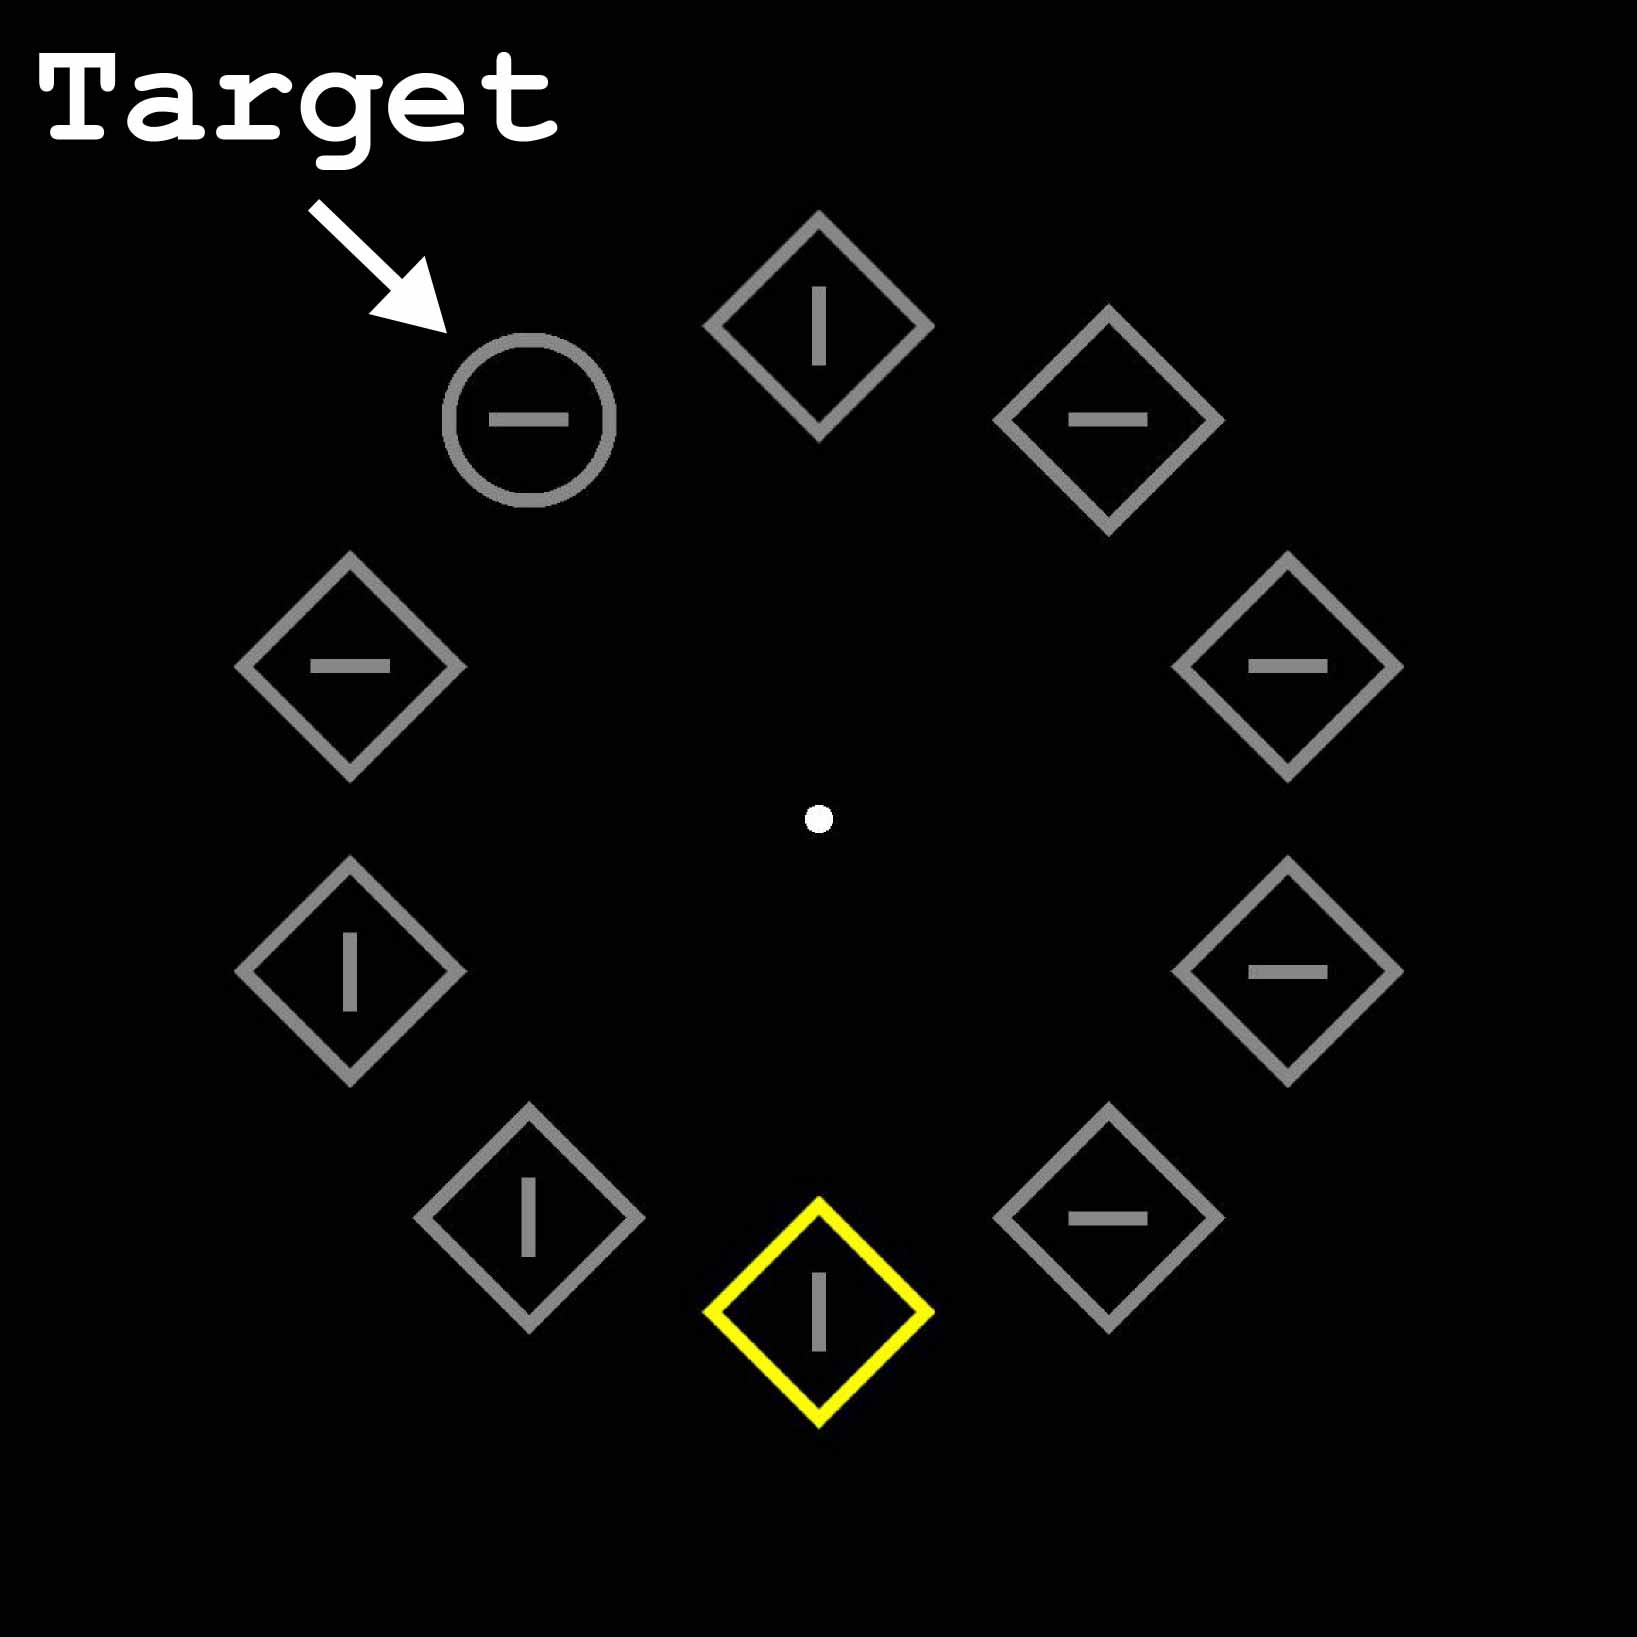
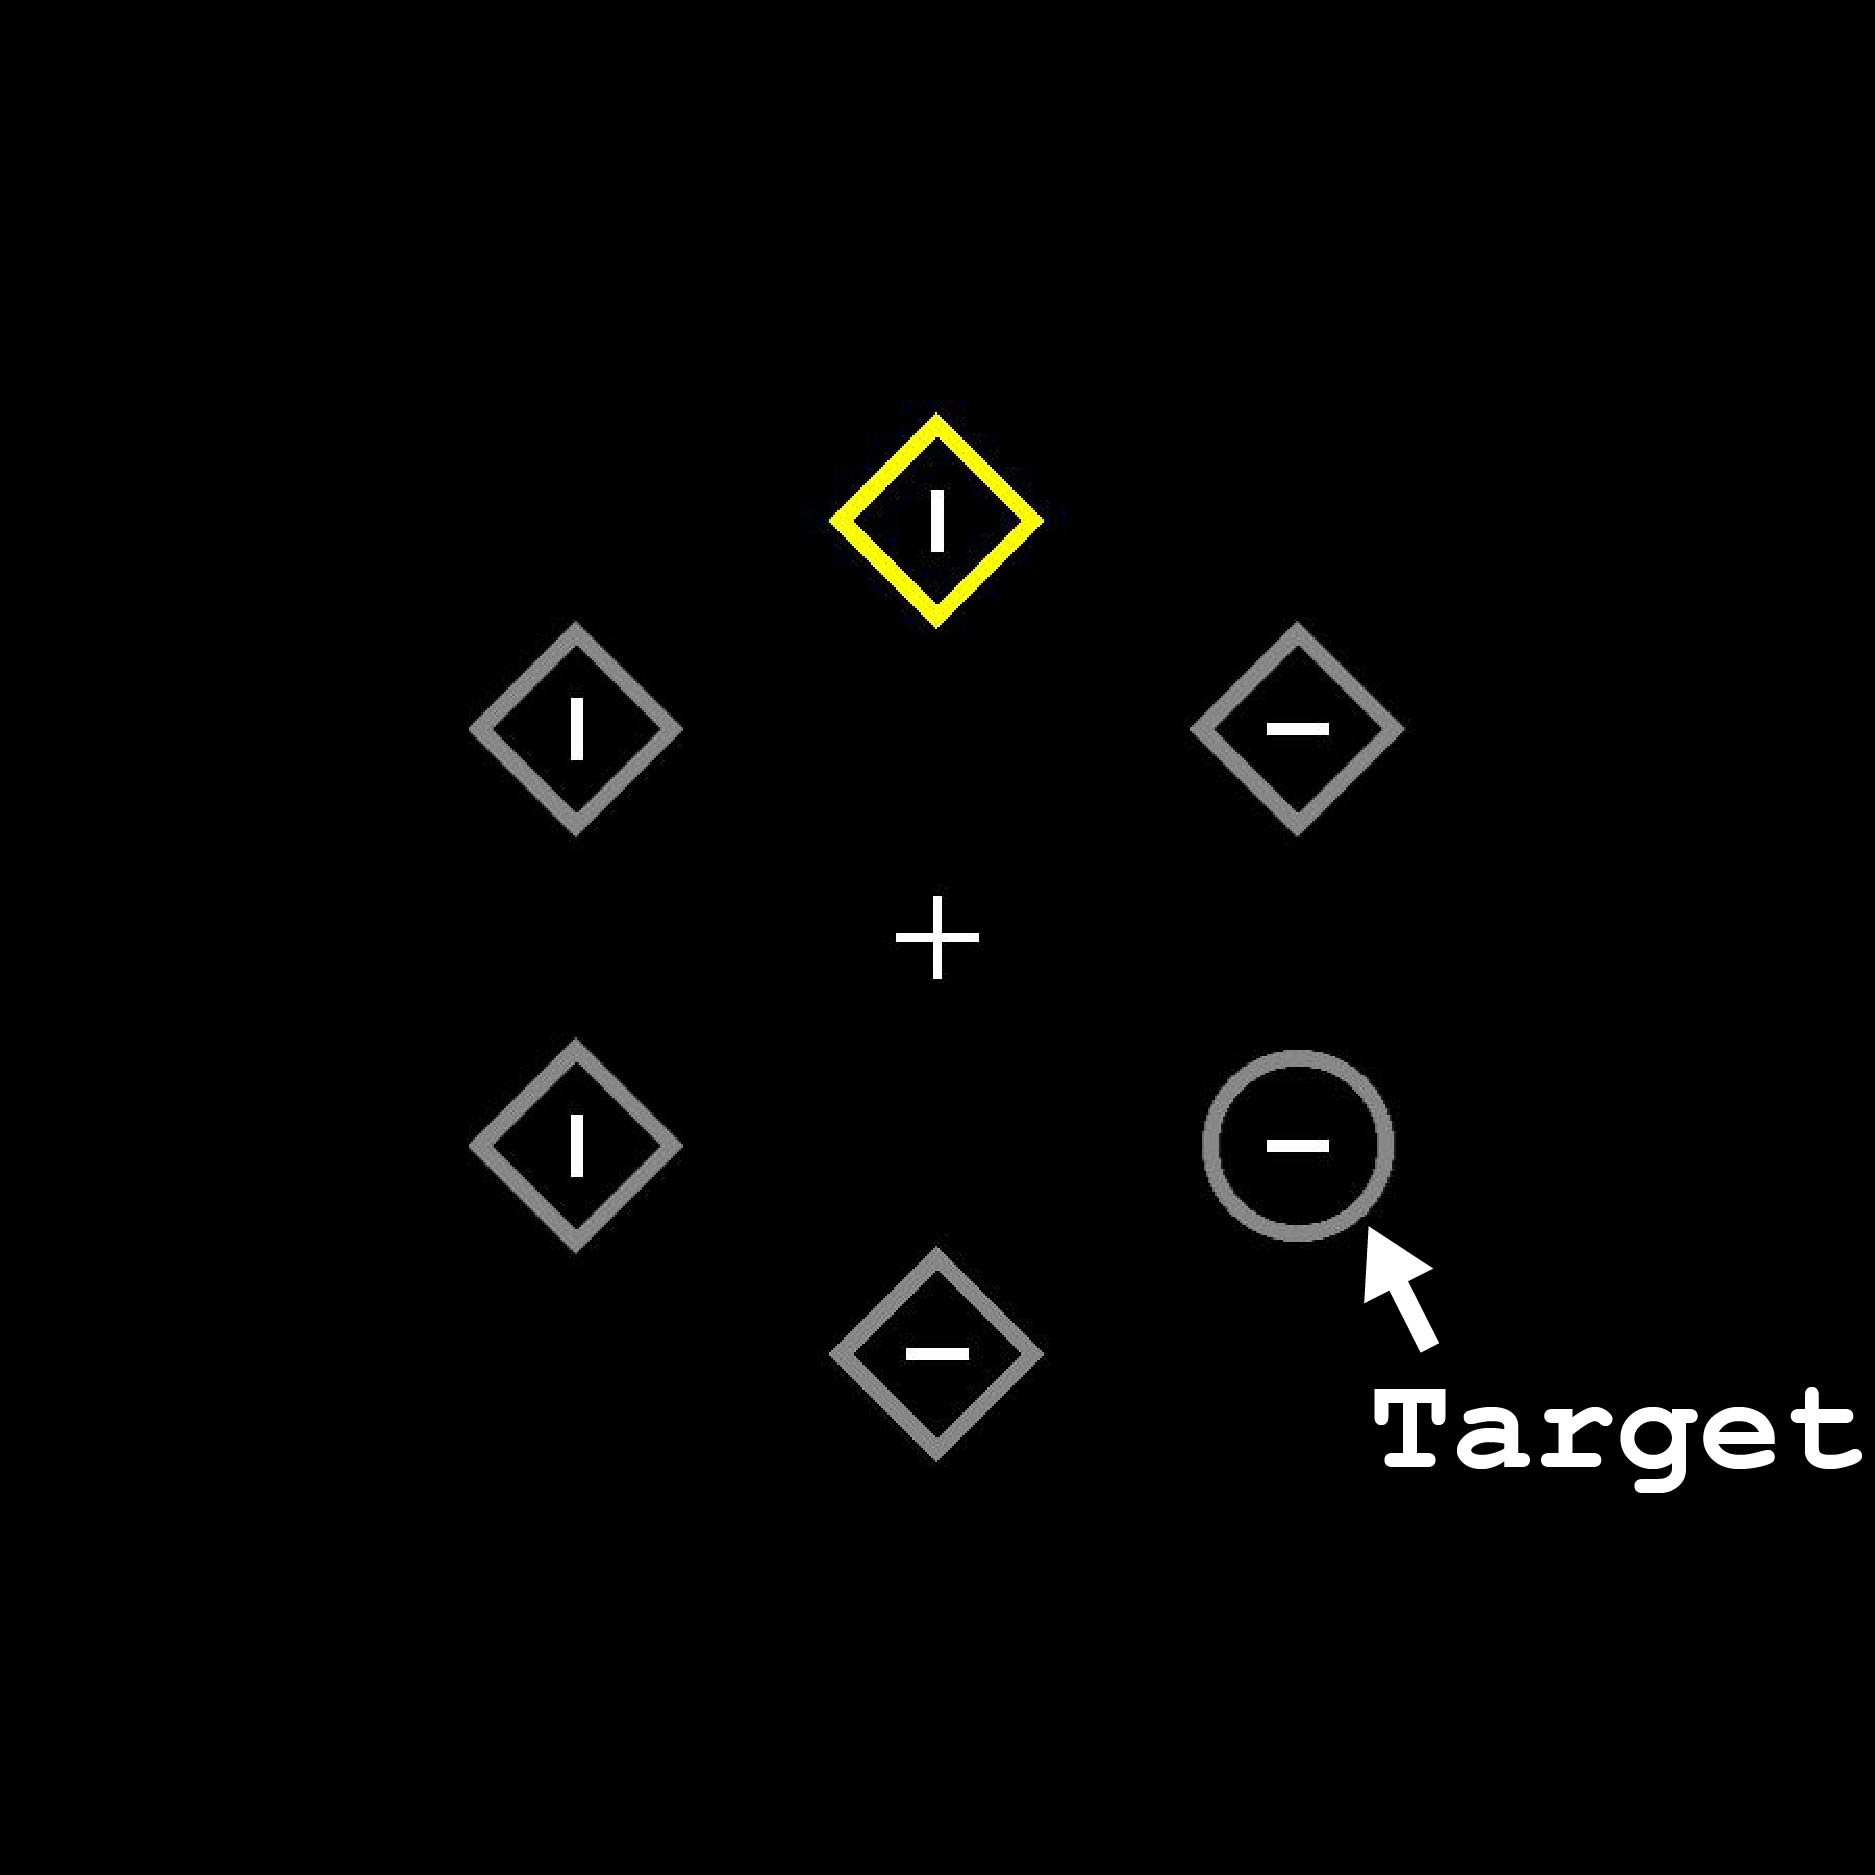
Updated instruction images

diff --git a/functions/runTrials.m b/functions/runTrials.m
@@ -500,21 +500,21 @@ for trial = 1 : numTrials
     
     st = VBLTime(trial); %record start time when stimuli are presented
     
-%     image = Screen('GetImage', MainWindow, [scr_centre(1)-450 scr_centre(2)-450 scr_centre(1)+450 scr_centre(2)+450] );
-%     
-%     if singletonType == 1
-%         if distractLoc == targetLoc
-%             imwrite(image, 'exampleDiamondTargetColoured.jpg') %400 x 400
-%         else
-%             imwrite(image, 'exampleDiamondTarget.jpg')
-%         end
-%     else
-%        if distractLoc == targetLoc
-%            imwrite(image, 'exampleCircleTargetColoured.jpg') 
-%        else
-%            imwrite(image, 'exampleCircleTarget.jpg')
-%        end
-%     end
+     image = Screen('GetImage', MainWindow, [scr_centre(1)-450 scr_centre(2)-450 scr_centre(1)+450 scr_centre(2)+450] );
+     
+    % if singletonType == 1
+    %     if distractLoc == targetLoc
+    %         imwrite(image, 'exampleDiamondTargetColoured.jpg') %400 x 400
+    %     else
+    %        imwrite(image, 'exampleDiamondTarget.jpg')
+    %     end
+    % else
+    %    if distractLoc == targetLoc
+    %        imwrite(image, 'exampleCircleTargetColoured.jpg') 
+    %    else
+    %        imwrite(image, 'exampleCircleTarget.jpg')
+    %    end
+    % end
     
     %%% FOR SCREENSHOTS
     

diff --git a/functions/initialInstructions.m b/functions/initialInstructions.m
@@ -6,7 +6,7 @@ global address runEEG exptSession
 
 if runEEG == 1; outp(address,77); end %start of initial instructions trigger
 
-instructStr1 = 'On each trial a dot will appear, this is to warn you that the trial is about to start. Then a set of shapes will appear; two examples are shown below.';
+instructStr1 = 'Each trial will start with a cross on the screen. This is to warn you that the trial is about to start, you should keep your eyes fixed on the cross. Then a set of shapes will appear; two examples are shown below.';
 if keyCounterbal == 1
     word1 = 'HORIZONTAL';
     word2 = 'VERTICAL';

diff --git a/igcue_EEG.m b/igcue_EEG.m
@@ -21,7 +21,7 @@ global address nf runEEG testing
 
 Screen('Preference', 'VisualDebuglevel', 3); %Hides the PTB startup screen when calibrating
 
-testing = 1; % Change this to 0 when ready to run for real
+testing = 0; % Change this to 0 when ready to run for real
 
 nf = java.text.DecimalFormat;
 
